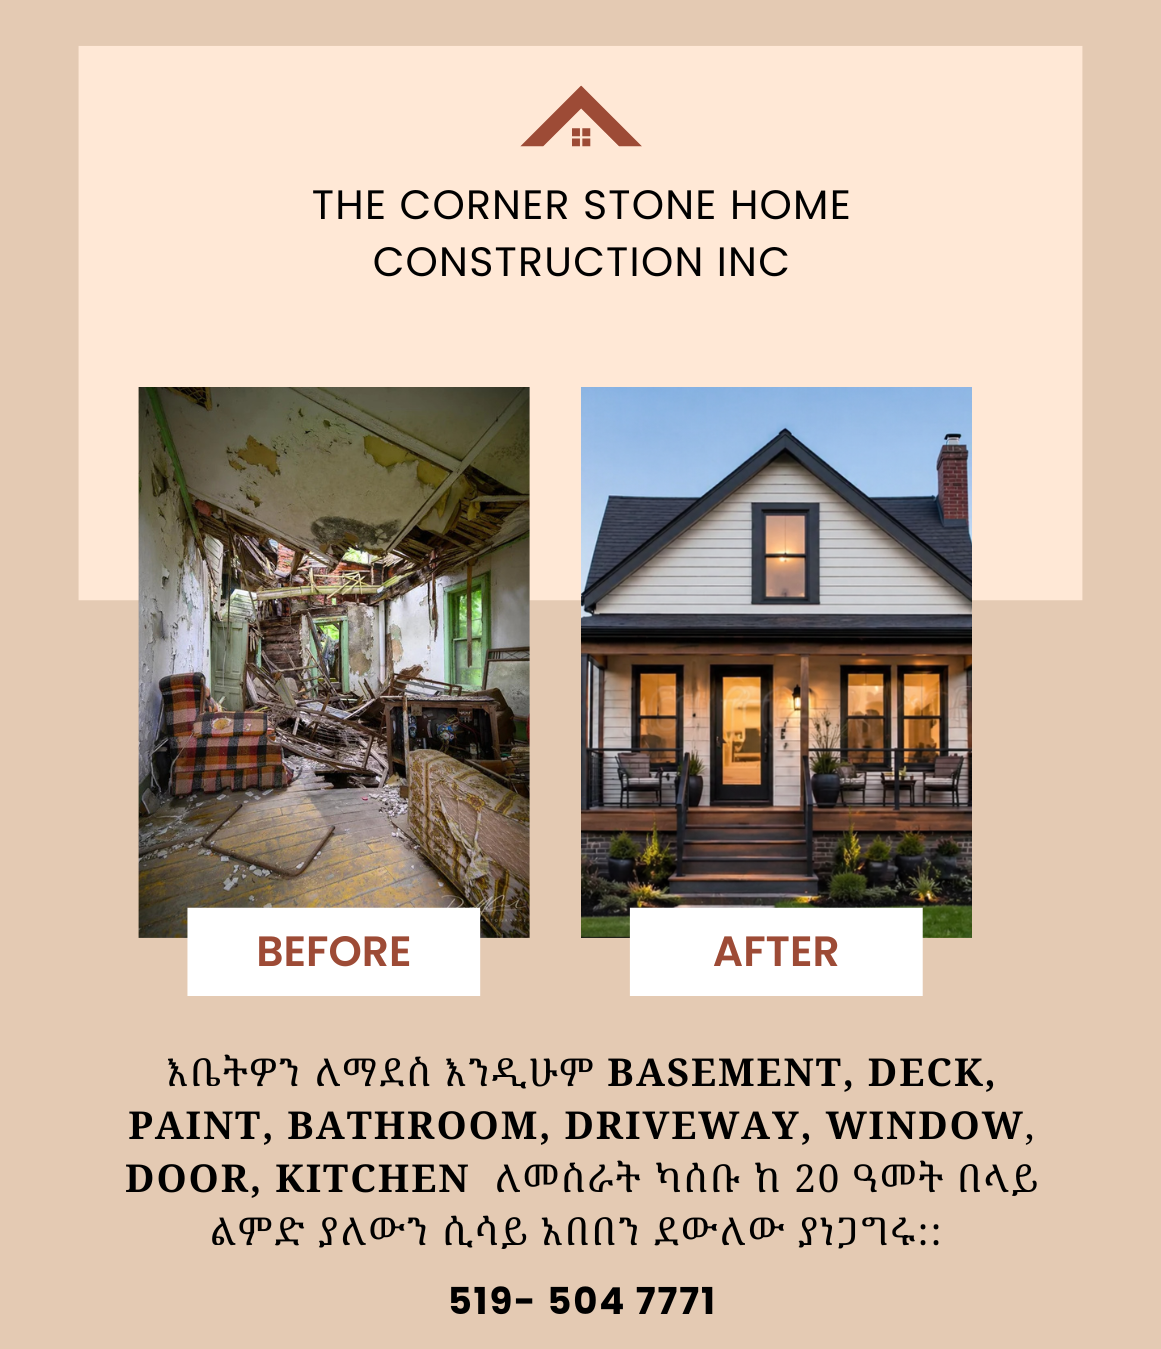
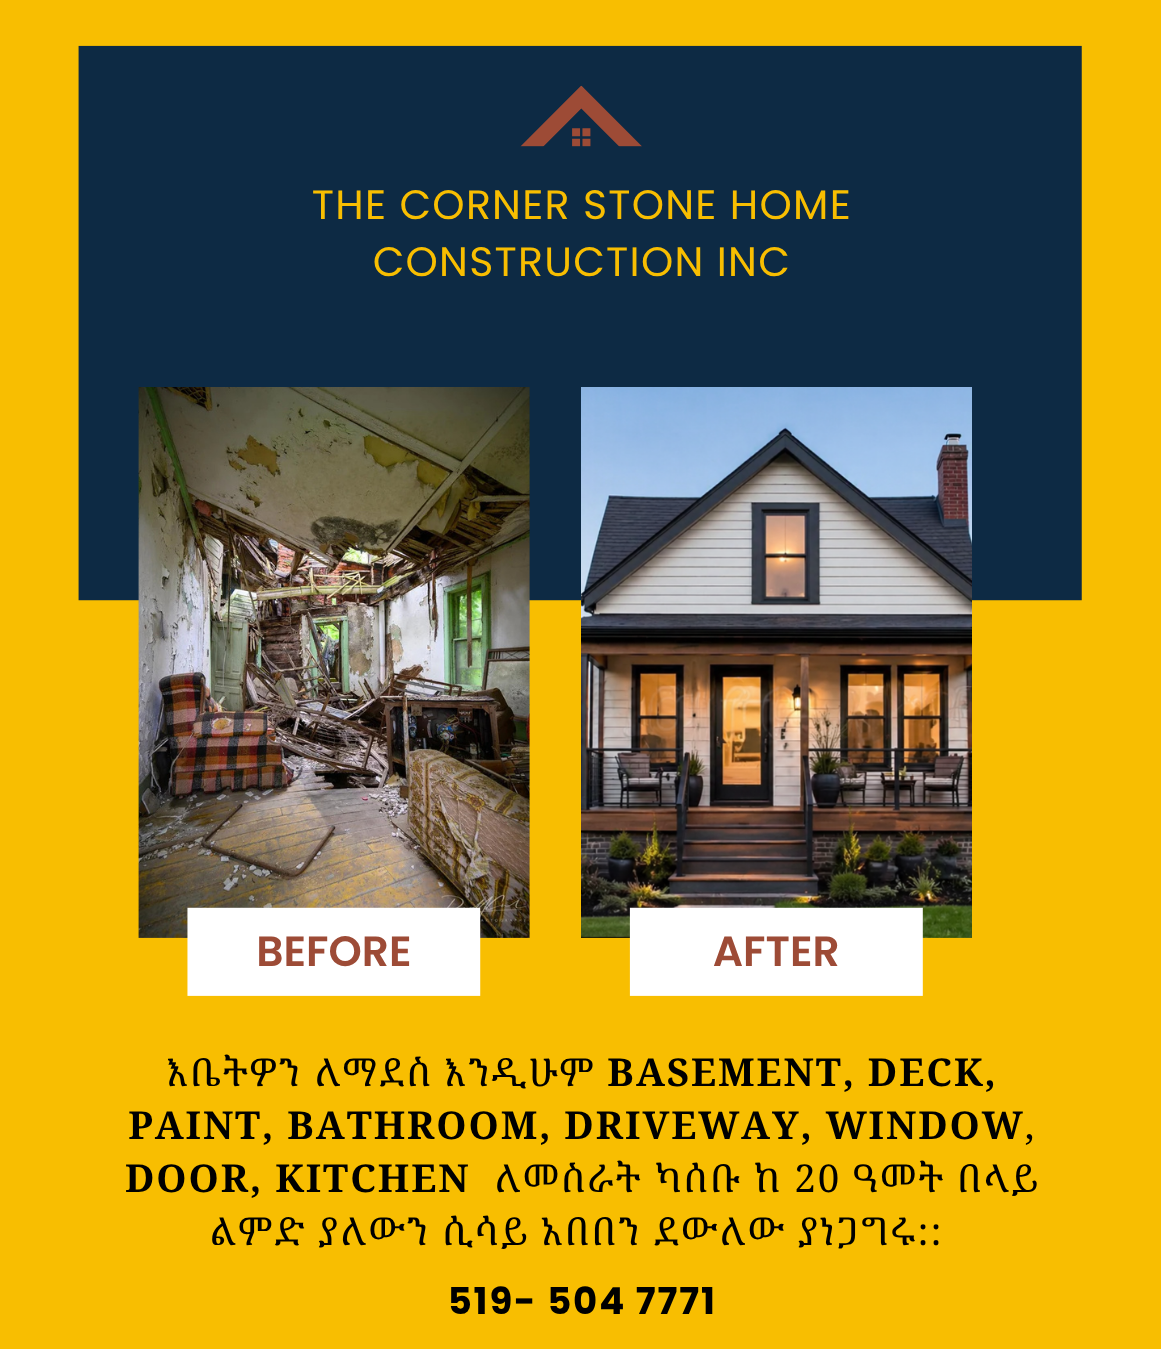
new business added

diff --git a/src/data/mockData.js b/src/data/mockData.js
@@ -57,6 +57,29 @@ const businesses = [
       "Others"
     ]
   },
+  {
+    id: 90,
+    name: "Hany Mehari Financial Services",
+    category: "Accounting / Income Tax",
+    phone: "437-568-6666",
+    email: "hmehari@ledgers.com",
+    address: "201 - 8 Sampson Mews North York, ON M3C 0H5",
+    website: null,
+    premium: false,
+    image: "/images/accounting_income_tax/Hany_accounting.jpg",
+    description: [
+      "Additional Contact Number: 416-693-4888",
+    ],
+    whatWeOffer: [
+      "Accounting & Bookkeeping",
+      "Corporate Income Tax",
+      "Personal Income Tax",
+      "US Tax Return",
+      "Charity Returns",
+      "Payroll & Related Services",
+      "Business Plans & Budgets",
+    ]
+  },
 
   // =============================================
   // AUTO MECHANIC / AUTO SALES / AUTO BODY SHOP
@@ -196,7 +219,52 @@ const businesses = [
       "Customer Focused"
     ]
   },
-
+  {
+    id: 91,
+    name: "Aseb Auto Mechanic",
+    category: "Auto Mechanic / Auto Sales / Auto Body Shop",
+    phone: "416-751-2892",
+    email: null,
+    address: "933 Warden Ave, Scarborough, ON MIL 4C5",
+    website: null,
+    premium: false,
+    image: "/images/auto_mechanic/aseb_automechanic.png",
+    description: [
+      "Your Satisfaction is Our Promise"
+    ],
+    whatWeOffer: [
+      "Body Repair",
+      "Oil Changes",
+      "Brake Repairs",
+      "Tire Changes",
+      "car AC Repair"
+    ]
+  },
+  {
+    id: 98,
+    name: "Loyal King One King",
+    category: "Auto Mechanic / Auto Sales / Auto Body Shop",
+    phone: "647-629-4022",
+    email: "onekingauto2@gmail.com",
+    address: "287 OLD KINGSTON RD SCARBOROUGH, ON MC 1B1",
+    website: "https://onekingauto.com/",
+    premium: true,
+    image: "/images/auto_mechanic/loyal_king_one_king.png",
+    description: [
+      "PREOWNED CARS SALES - Quality Cars You Can Trust",
+      "WE BUY, SALE & TRADE CARS - Best Deals. Honest Service",
+      "FINANCING AVAILABLE - Easy Approval. Drive Today!"
+    ],
+    whatWeOffer: [
+      
+      "General Auto Repair",
+      "Electric Repair",
+      "Collision Repair",
+      "Mechanical Safety Inspection",
+      "General Service",
+      "Used Tires & New Tire Sale"
+    ]
+  },
   // =============================================
   // BAKERY
   // =============================================
@@ -219,6 +287,30 @@ const businesses = [
       "Fresh Bread",
       "Cakes & Desserts",
       "Coffee & Beverages"
+    ]
+  },
+
+    // =============================================
+  // BANQUET
+  // =============================================
+  {
+    id: 94,
+    name: "Zb Hospitality Group Inc",
+    category: "Bakery",
+    phone: "416-407-1217",
+    email: "zee@zbhospitality.com",
+    address: "2301 Keele st. Unit 101, North York, ON M6M 39",
+    website: "https://www.yorkmillsgallary.com",
+    premium: false,
+    image: "/images/banquet/zee_hospitality.png",
+    description: [
+      "Zb Hospitality group Ing is a Toronto-based hospitality and catering company",
+    ],
+    whatWeOffer: [
+      "6 Event catering",
+      "Corporate and social events",
+      "Venue management",
+      "Event production and design"
     ]
   },
 
@@ -275,6 +367,29 @@ const businesses = [
     website: null,
     premium: false,
     image: "/images/beauty_salon/sunrise_beauty.png",
+  },
+  {
+    id: 95,
+    name: "Sunny Bella Bloom",
+    category: "Beauty Salon & Supply",
+    phone: "(416) 474-1090",
+    email: "info@sunnybellabloom.ca",
+    address: "614 Fleet St, Suite 104, Toronto. ON M5V 1B3",
+    website: "https://sunnybellabloom.ca/",
+    premium: false,
+    image: "/images/beauty_salon/Sunny_bella.jpg",
+    description: [
+      "Beauty is being comfortable in your own skin, pamper it well",
+    ],
+    whatWeOffer: [
+      "Hair Treatment",
+      "Hair Styling",
+      "Skincare Service",
+      "Face Treatment",
+      "Make Up",
+      "Japanese Head Scalp Massage",
+      "Teeth Whitening"
+    ]
   },
 
   // =============================================
@@ -368,6 +483,29 @@ const businesses = [
       "Phones Reparing",
       "Windows Installation",
       "Laptops Repairing"
+    ]
+  },
+  // =============================================
+  // Cleaning
+  // =============================================
+  {
+    id: 92,
+    name: "Buzu Cleaning",
+    category: "Cell phone",
+    phone: "(437) 855-9923",
+    email: null,
+    address: null,
+    website: null,
+    premium: false,
+    image: "/images/cleaning/Buzu_cleaning.png",
+    description: [
+      "የእርስዎን ቤት በደንብ አድርጌ አጽድቼ ወልውዬ በሚገባ አቀርብልዎታለሁ በስራዬ የደታሉ። በ (437) 855-9923 ደውለው ያገኙኛል።"
+    ],
+    whatWeOffer: [
+      "School Office",
+      "Restaurant",
+      "Doctor's Office",
+      "House Cleaning"
     ]
   },
   // =============================================
@@ -973,6 +1111,26 @@ const businesses = [
       "Groceries"
     ]
   },
+  {
+    id: 97,
+    name: "4 Kilo Butcher",
+    category: "Meat Market",
+    phone: "(416) 694-8893",
+    email: null,
+    address: "2009 DANFORTH AVE. TORONTO, ON M4C 1J7",
+    website: "https://4kilobutcher.com/",
+    premium: false,
+    image: "/images/meat_market/4_kilo_butcher.png",
+    description: [
+      "COME ENJOY AUTHENTIC ETHIOPIAN FLAVORS, FRESH SPICES, AND UNFORGETTABLE MEALS TODAY HERE.",
+      "የሚያስፈልጎትን ምግብ INGREDIENT እኛ ጋር ይሸምቱ"
+    ],
+    whatWeOffer: [
+      "DIVERSE",
+      "WELL-STOCKED",
+      "AUTHENTIC"
+    ]
+  },
 
   // =============================================
   // MORTGAGE AGENT
@@ -1387,6 +1545,20 @@ const businesses = [
       "We are located two blocks North of Wellesley St at Yong St",
     ],
   },
+  {
+    id: 93,
+    name: "Rehobot Cafe",
+    category: "Restaurant / Café",
+    phone: "(416)-686-1104",
+    email: null,
+    address: "2737 Danforth Ave, Toronto, ON M4C 1L8",
+    website: null,
+    premium: false,
+    image: "/images/restaurant_cafe/rehobot_cafe.png",
+    description: [
+      "Authentic Ethiopian Flavors, Culture, Warmth, Beautifully Served",
+    ],
+  },
 
   // =============================================
   // SPICES
@@ -1668,6 +1840,29 @@ const businesses = [
     premium: false,
     image: "/images/videographer/photo_berhan.png",
 
+  },
+  {
+    id: 96,
+    name: "Alpha Videography & Photography",
+    category: "Videographer",
+    phone: "647-784-2286",
+    email: null,
+    address: null,
+    website: "https://alphaphoto-video.com",
+    premium: false,
+    image: "/images/videographer/alpha_videography.jpg",
+    description: [
+      "Capturing the moments you'll want to look back on forever",
+      "20 years of experince"
+    ],
+    whatWeOffer: [
+      "Food Photography",
+      "Event Photography",
+      "Couple Photography",
+      "Maternity Photography",
+      "Studio Photography",
+      "Wedding Photography"
+    ]
   },
 
   // =============================================
